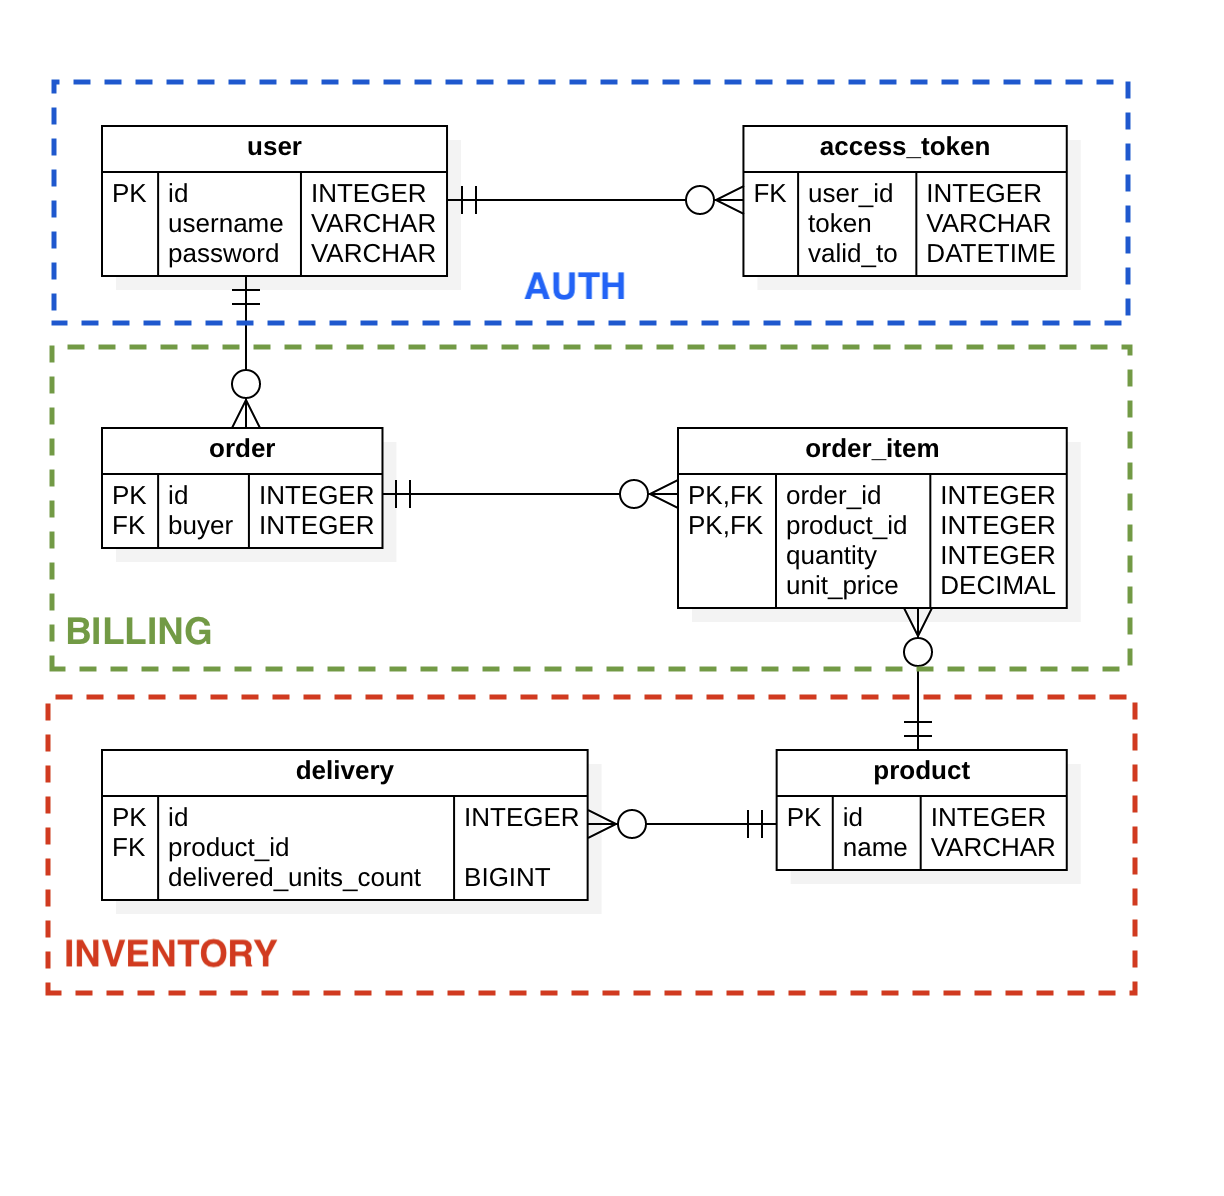
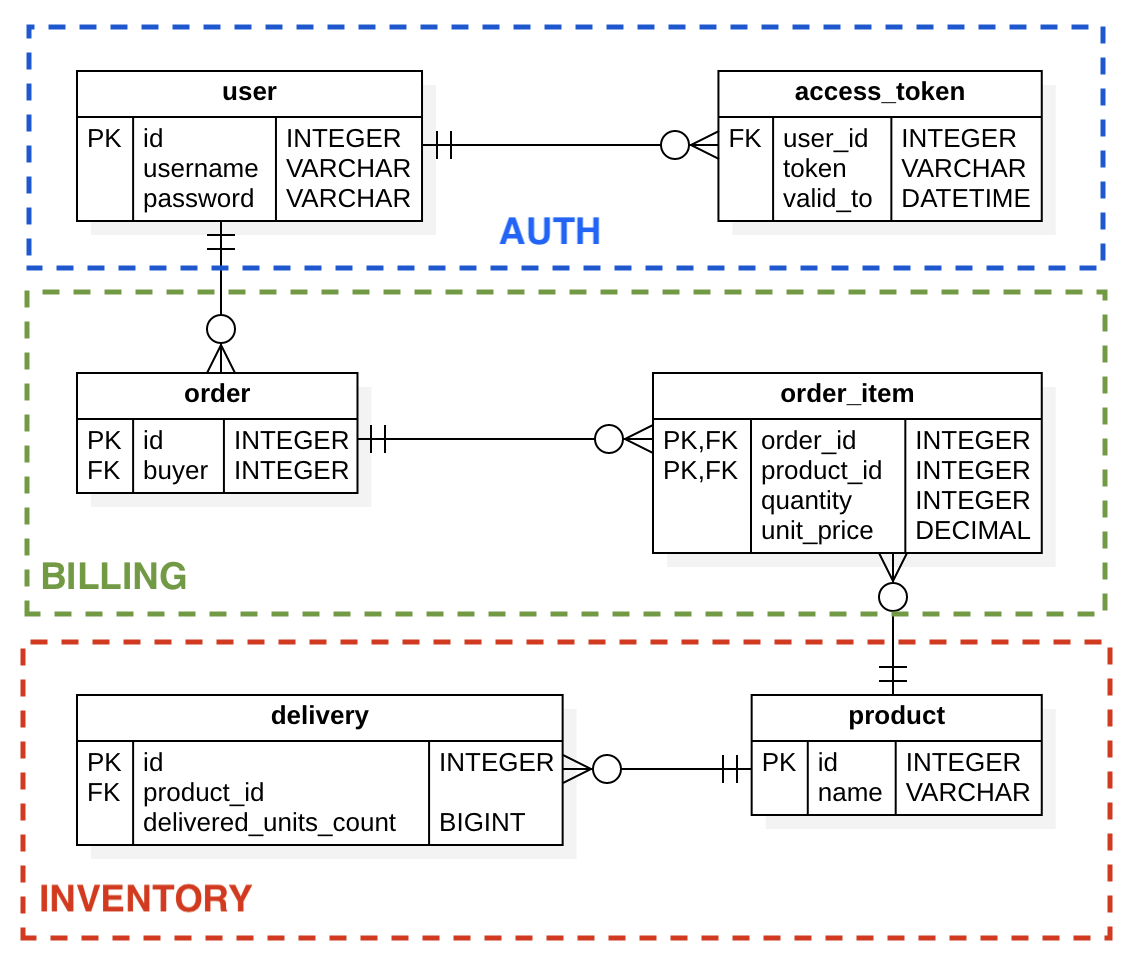
readme

diff --git a/README.md b/README.md
@@ -307,3 +307,10 @@ func main() {
 Notice that comparing to the `Migrate` function, `RepoOrder` argument is reversed.
 
 If we would like to roll back all migrations, we would provide `-1` as the last argument to the `Rollback`.
+
+## Example code
+- [example test](example_test.go)
+- [example ecommerce app](internal/docs/ecommerceapp)
+
+## Credits
+ER diagram built with https://staruml.io
